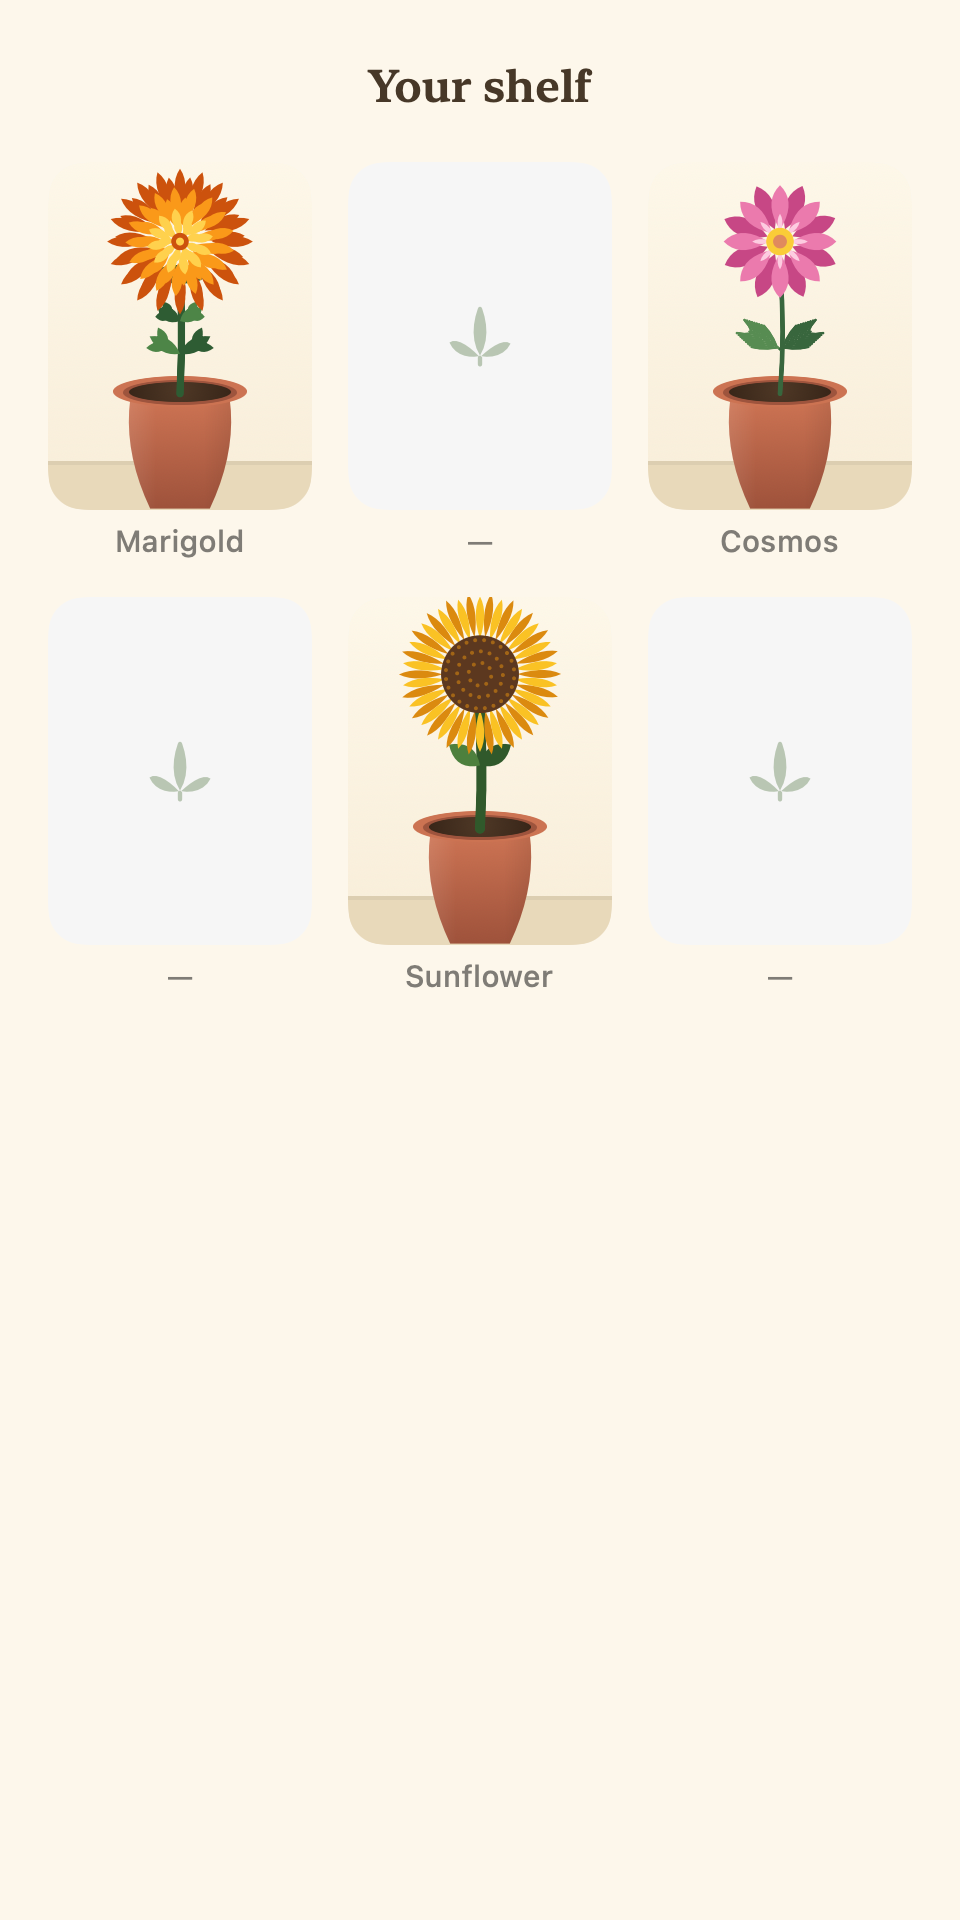
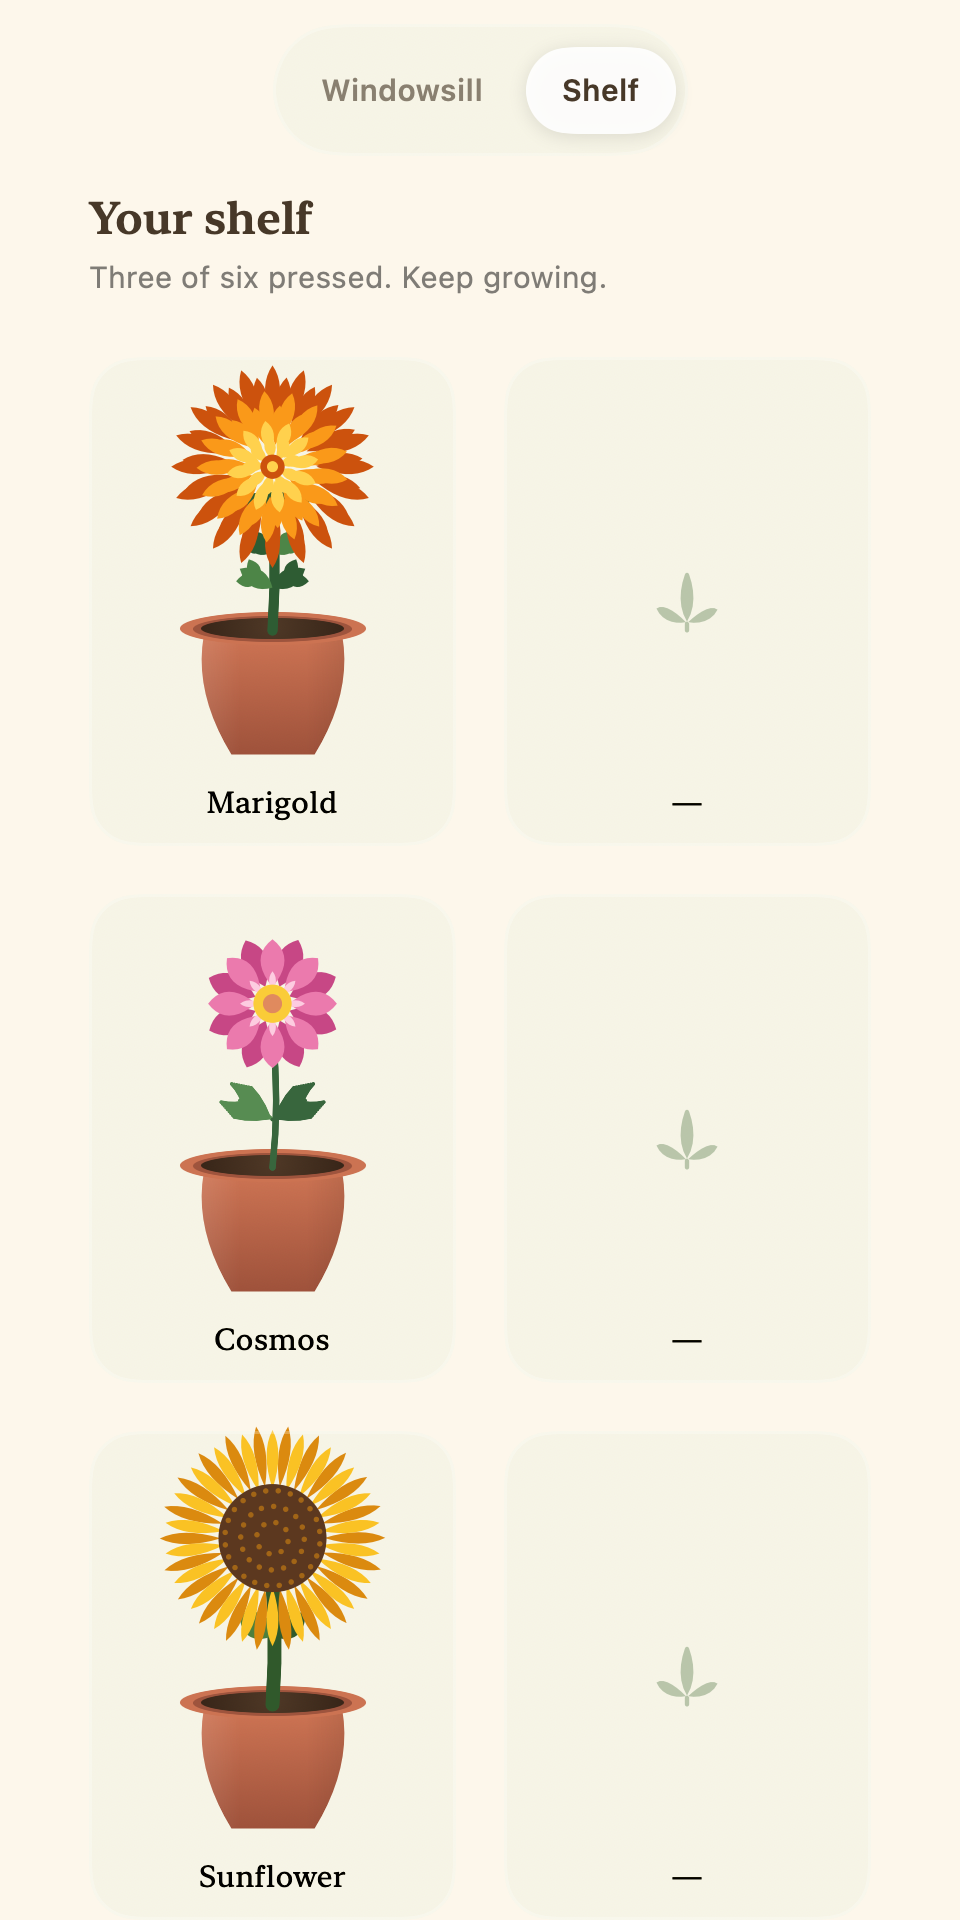
feat(ui): round-2 shelf — 2-col 3:4 pressed-bloom cards, scroll bleed (T5)
Left-aligned serif header + live count sub; glass cards (board-less PlantView blooms,
caption strip, mono sprout for empties); third row bleeds past the fold as the scroll
cue. ScrollView on device; the macOS render path top-aligns + clips the same content
(ImageRenderer can't lay out ScrollView/LazyVGrid — both came out empty).

diff --git a/SsakApp/Sources/SsakApp/ShelfView.swift b/SsakApp/Sources/SsakApp/ShelfView.swift
@@ -2,9 +2,9 @@ import SwiftUI
 import SsakCore
 import SsakArt
 
-/// The collection (spec §2.3): six slots that fill with pressed blooms as species complete.
-/// Empty slots show a faint mono 싹 glyph; a quiet "garden complete" state at six; any bloom
-/// is replantable. Light restyle only — the grid + replant flow are unchanged.
+/// The collection (round 2): a left-aligned serif header and a 2-column grid of 3:4
+/// pressed-bloom cards — sized so the third row bleeds past the fold, the scroll
+/// affordance itself. Empty slots show the faint mono 싹 glyph; any bloom is replantable.
 public struct ShelfView: View {
     @ObservedObject var model: GardenModel
     var onReplant: (Species) -> Void
@@ -13,46 +13,68 @@ public struct ShelfView: View {
         self.model = model; self.onReplant = onReplant
     }
 
-    @Environment(\.colorScheme) private var scheme
-    private var cardFill: Color { scheme == .dark ? Color(white: 0.17) : Color(white: 0.965) }
-
-    private let cols = [GridItem(.flexible(), spacing: 12),
-                        GridItem(.flexible(), spacing: 12),
-                        GridItem(.flexible(), spacing: 12)]
+    private static let counts = ["None", "One", "Two", "Three", "Four", "Five", "Six"]
 
     public var body: some View {
-        VStack(spacing: 16) {
-            Text(model.isGardenComplete ? "Garden complete 🌸" : "Your shelf")
-                .font(.system(.title3, design: .serif).weight(.semibold))
-                .inkText()
-                .padding(.top, 20)
-            LazyVGrid(columns: cols, spacing: 12) {
-                ForEach(SpeciesCatalog.all) { slot($0) }
-            }
-            .padding(.horizontal, 16)
-            Spacer(minLength: 0)
-        }
-        .frame(maxWidth: .infinity, maxHeight: .infinity)
-        .ssakGround()
+        // ScrollView on device (the third row bleeds past the fold — the scroll cue);
+        // ImageRenderer can't lay out a ScrollView on the macOS render path, so the
+        // harness gets the same content top-aligned and clipped — visually identical.
+        #if os(iOS)
+        ScrollView { content }
+            .frame(maxWidth: .infinity, maxHeight: .infinity)
+            .ssakGround()
+        #else
+        content
+            .frame(maxWidth: .infinity, maxHeight: .infinity, alignment: .top)
+            .clipped()
+            .ssakGround()
+        #endif
     }
+
+    private var content: some View {
+            VStack(alignment: .leading, spacing: 4) {
+                Text(model.isGardenComplete ? "Garden complete 🌸" : "Your shelf")
+                    .font(.system(.title3, design: .serif).weight(.semibold))
+                    .inkText()
+                Text(model.isGardenComplete
+                     ? "All six pressed. Replant any bloom."
+                     : "\(Self.counts[model.collected.count]) of six pressed. Keep growing.")
+                    .font(.footnote).foregroundStyle(.secondary)
+                // Six fixed slots — a plain grid, not LazyVGrid (lazy children never
+                // materialize under ImageRenderer, so the reference renders came out empty).
+                VStack(spacing: 16) {
+                    ForEach(0..<3, id: \.self) { r in
+                        HStack(spacing: 16) {
+                            slot(SpeciesCatalog.all[r * 2])
+                            slot(SpeciesCatalog.all[r * 2 + 1])
+                        }
+                    }
+                }
+                .padding(.top, 16)
+            }
+            .padding(.horizontal, Design.pad)
+            .padding(.top, 64)                     // clears the 44pt top-nav row
+    }                                              // no bottom padding — the fold cut is the cue
 
     @ViewBuilder private func slot(_ sp: Species) -> some View {
         let have = model.collected.contains(sp.id)
-        VStack(spacing: 4) {
-            ZStack {
-                RoundedRectangle(cornerRadius: 12).fill(cardFill)
-                if have {
-                    PlantView(species: sp, stage: .bloom)
-                        .clipShape(RoundedRectangle(cornerRadius: 12))
-                } else {
-                    SsakMark(.mono).frame(width: 40, height: 40).opacity(0.5)
-                }
+        ZStack(alignment: .bottom) {
+            if have {
+                PlantView(species: sp, stage: .bloom, wall: false, board: false)
+                    .padding(.top, 8)
+                    .padding(.bottom, 30)          // room for the caption strip below the pot
+            } else {
+                SsakMark(.mono).frame(width: 40, height: 40).opacity(0.5)
+                    .frame(maxHeight: .infinity, alignment: .center)
             }
-            .frame(height: 116)
             Text(have ? sp.nameEN : "—")
-                .font(.caption2).fontWeight(have ? .medium : .regular)
+                .font(.system(.footnote, design: .serif))
                 .foregroundStyle(.secondary)
+                .padding(.bottom, 8)
         }
+        .frame(maxWidth: .infinity)
+        .aspectRatio(3 / 4, contentMode: .fit)
+        .ssakGlass(RoundedRectangle(cornerRadius: Design.rMD))
         .accessibilityElement(children: .ignore)
         .accessibilityLabel(have ? "\(sp.nameEN), collected" : "Empty slot")
         .accessibilityAddTraits(have ? .isButton : [])

diff --git a/SsakApp/Sources/SsakAppRender/Render.swift b/SsakApp/Sources/SsakAppRender/Render.swift
@@ -148,7 +148,10 @@ struct Render {
             let plant = GrowthEngine.plant(SpeciesCatalog.marigold, at: d0)
             let model = GardenModel(state: GameState(plant: plant, collected: collected),
                                     store: PlantStore(url: URL(fileURLWithPath: "/dev/null")), calendar: Self.cal)
-            return ShelfView(model: model, onReplant: { _ in })
+            return ZStack(alignment: .top) {
+                ShelfView(model: model, onReplant: { _ in })
+                TopNavPill(tab: .constant(1)).padding(.top, 8)
+            }
         }
         write(shelf([]), phone, "shelf_empty.png")
         write(shelf(["marigold", "cosmos", "sunflower"]), phone, "shelf_partial.png")